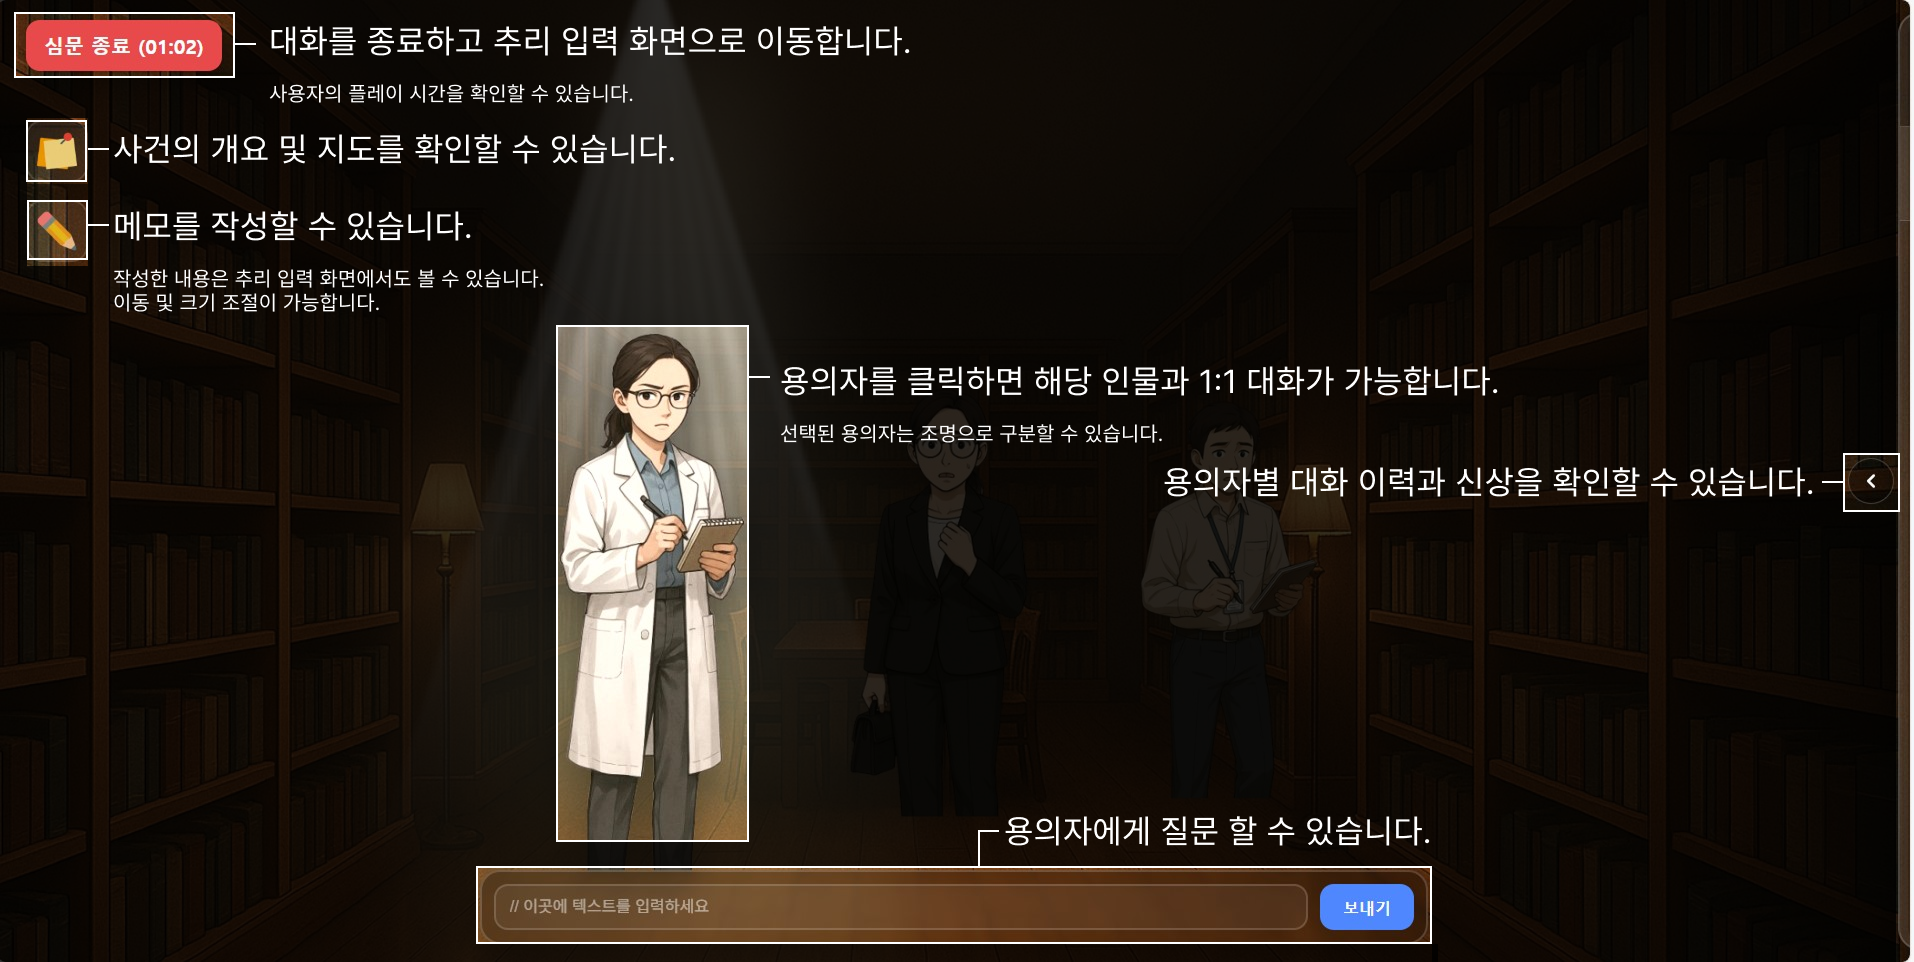
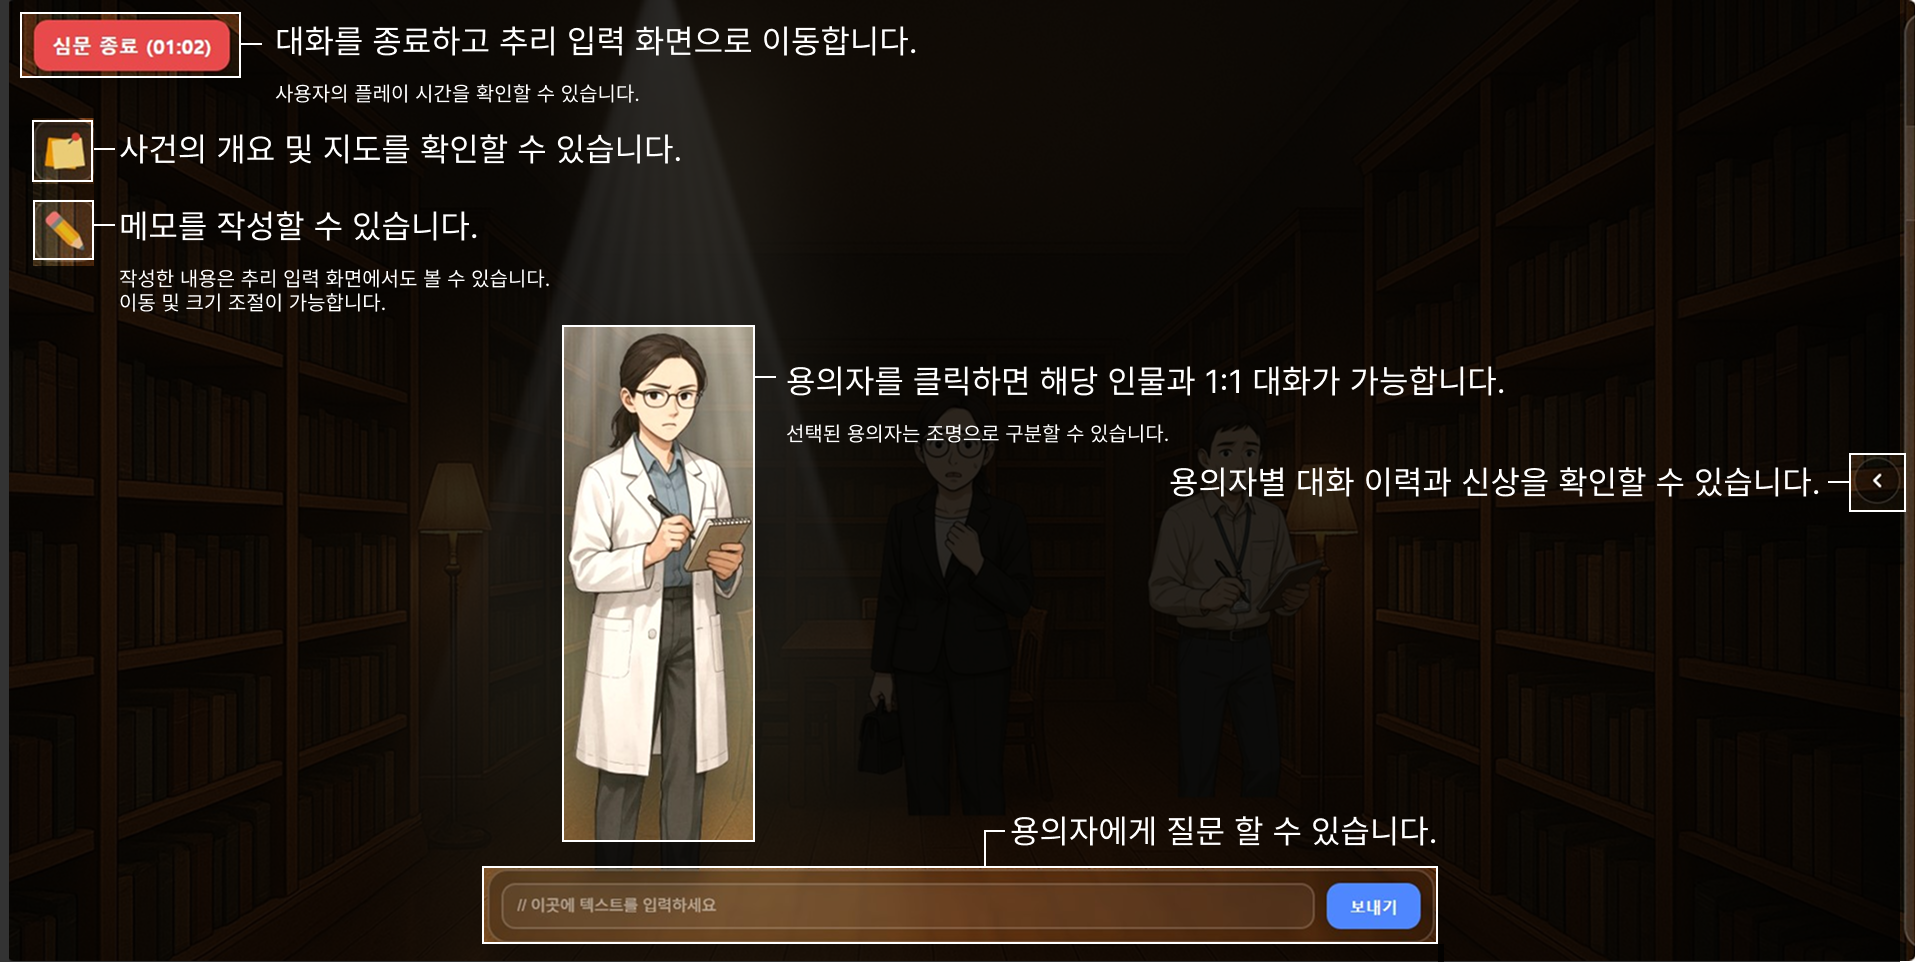
게임 설명 확대 추가

diff --git a/detective-frontend/src/pages/ScenarioSelectPage.tsx b/detective-frontend/src/pages/ScenarioSelectPage.tsx
@@ -168,6 +168,48 @@ export default function ScenarioSelectPage() {
       </div>
     ) : null;
 
+  // ====== 이미지 전용 확대/이동 상태 ======
+  const [zoom, setZoom] = useState(1); // 1 ~ 4
+  const [pan, setPan] = useState({ x: 0, y: 0 });
+  const isPanning = useRef(false);
+  const panStart = useRef({ x: 0, y: 0, ox: 0, oy: 0 });
+
+  const clamp = (v: number, min: number, max: number) =>
+    Math.min(max, Math.max(min, v));
+
+  const resetZoom = () => {
+    setZoom(1);
+    setPan({ x: 0, y: 0 });
+  };
+
+  const onOverlayWheel: React.WheelEventHandler<HTMLDivElement> = (e) => {
+    // 모달 안에서는 페이지 스크롤/줌 방지하고, 이미지만 확대/축소
+    e.preventDefault();
+    const delta = -e.deltaY; // 위로 밀면 확대(+)
+    const factor = Math.exp(delta * 0.0015); // 부드럽게
+    setZoom((z) => clamp(z * factor, 1, 4));
+  };
+
+  const onOverlayDblClick = () => {
+    setZoom((z) => (z > 1 ? 1 : 2));
+    setPan({ x: 0, y: 0 });
+  };
+
+  const onMouseDown: React.MouseEventHandler<HTMLDivElement> = (e) => {
+    if (zoom <= 1) return;
+    isPanning.current = true;
+    panStart.current = { x: e.clientX, y: e.clientY, ox: pan.x, oy: pan.y };
+  };
+  const onMouseMove: React.MouseEventHandler<HTMLDivElement> = (e) => {
+    if (!isPanning.current) return;
+    const dx = e.clientX - panStart.current.x;
+    const dy = e.clientY - panStart.current.y;
+    setPan({ x: panStart.current.ox + dx, y: panStart.current.oy + dy });
+  };
+  const onMouseUpOrLeave = () => {
+    isPanning.current = false;
+  };
+
   return (
     <div className="sc-root">
       {/* 우상단 고정 아바타 버튼 */}
@@ -191,7 +233,10 @@ export default function ScenarioSelectPage() {
           <button
             type="button"
             className="sc-howto-btn"
-            onClick={() => setHowtoOpen(true)}
+            onClick={() => {
+              setHowtoOpen(true);
+              resetZoom();
+            }}
             aria-haspopup="dialog"
             aria-controls="howto-dialog"
             title="게임 방법"
@@ -256,19 +301,39 @@ export default function ScenarioSelectPage() {
             inset: 0,
             background: "rgba(0,0,0,0.92)",
             zIndex: 9999,
+            overflow: "hidden", // 이미지 확대 시 잘리는 영역 관리
+            touchAction: "none", // 터치 제스처 기본 동작 방지
           }}
+          // 이미지 전용 확대/축소/이동 핸들링
+          onWheel={onOverlayWheel}
+          onDoubleClick={onOverlayDblClick}
+          onMouseDown={onMouseDown}
+          onMouseMove={onMouseMove}
+          onMouseUp={onMouseUpOrLeave}
+          onMouseLeave={onMouseUpOrLeave}
+          // 모바일 드래그 대비(간단 처리: pointer 이벤트도 마우스 핸들러로 들어옴)
         >
+          {/* 확대/이동은 img에만 적용 */}
           <img
             src={publicURL("/effects/tuto.png")}
             alt="게임 방법 튜토리얼"
             style={{
-              position: "fixed",
-              inset: 0,
-              width: "100vw",
-              height: "100vh",
-              objectFit: "contain", // 가득 채우되 비율 유지
+              position: "absolute",
+              left: "50%",
+              top: "50%",
+              transform: `translate(-50%, -50%) translate(${pan.x}px, ${pan.y}px) scale(${zoom})`,
+              transformOrigin: "center center",
+              maxWidth: "100%",
+              maxHeight: "100%",
+              objectFit: "contain",
               display: "block",
               userSelect: "none",
+              cursor:
+                zoom > 1
+                  ? isPanning.current
+                    ? "grabbing"
+                    : "grab"
+                  : "zoom-in",
             }}
             draggable={false}
             onError={(e) => {
@@ -276,7 +341,7 @@ export default function ScenarioSelectPage() {
             }}
           />
 
-          {/* 우상단 'ESC 로 닫기' 배너 (클릭/Enter/Space로 닫힘) */}
+          {/* 우상단 'ESC 로 닫기' 배너 (클릭/Enter/Space로 닫힘) — 이미지 줌과 무관 */}
           <div
             role="button"
             tabIndex={0}
@@ -293,7 +358,7 @@ export default function ScenarioSelectPage() {
               right: "clamp(12px, 2.5vw, 28px)",
               color: "#fff",
               fontWeight: 900,
-              fontSize: "clamp(18px, 3.2vw, 36px)",
+              fontSize: 24, // 내부 줌과 독립적이도록 px 고정
               letterSpacing: 0.5,
               padding: "10px 14px",
               borderRadius: 14,
@@ -319,9 +384,9 @@ export default function ScenarioSelectPage() {
                 fontWeight: 800,
               }}
             >
-              닫기
+              ESC
             </span>
-            (ESC)
+            로 닫기
           </div>
         </div>
       )}
